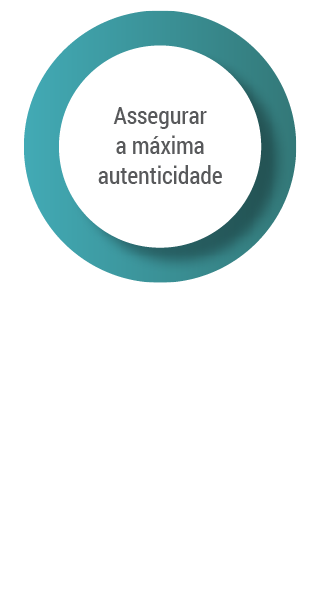
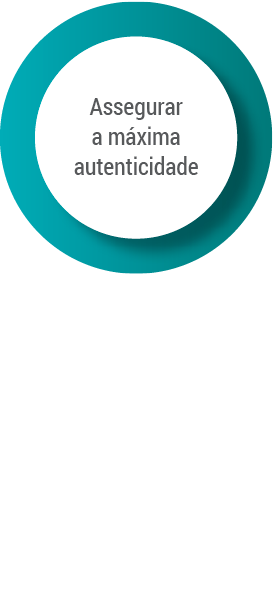
ajuste animação fg 2

Changed region(s): [[0.0, 0.0, 0.9963, 0.4848], [0.2637, 0.1515, 0.7326, 0.303]]

diff --git a/pages/capitulo_1.html b/pages/capitulo_1.html
@@ -66,13 +66,18 @@
             <div class="col-md-10 mx-auto">
 
                 <div class="col-12 mx-auto">
-                    <div class="responsive-animated-image web mx-auto">
+                    <div class="d-none d-sm-block mx-auto w-100">
                         <img src="assets/images/module_1/content/Figura-2/Web/1.png" data-aos="fade-down" data-aos-delay="500" style="width: 100%">
                         <img src="assets/images/module_1/content/Figura-2/Web/2.png" data-aos="fade-right" data-aos-delay="1000" style="width: 100%; position:absolute; top: 0; left:0;">
                     </div>
-                    <div class="mobile mx-auto">
-                        <img src="assets/images/module_1/content/Figura-2/mobile/1.png" data-aos="fade-right" data-aos-delay="500">
-                        <img src="assets/images/module_1/content/Figura-2/mobile/2.png" data-aos="fade-left" data-aos-delay="1000" style="position:absolute; top: 0; left:0;">
+                    <div class="d-block d-sm-none w-100" >
+                        <img src="assets/images/module_1/content/Figura-2/mobile/1.png" data-aos="fade-down" data-aos-delay="500" class="d-block mx-auto">
+                        <img src="assets/images/module_1/content/Figura-2/mobile/2.png" data-aos="fade-up" data-aos-delay="1000" 
+                        
+
+                        style="position:absolute; margin-left:auto; margin-right:auto; top: 0; left:0; right:0;"
+                        
+                       >
                     </div>
                 </div>
                 <figcaption class="pb-4">
